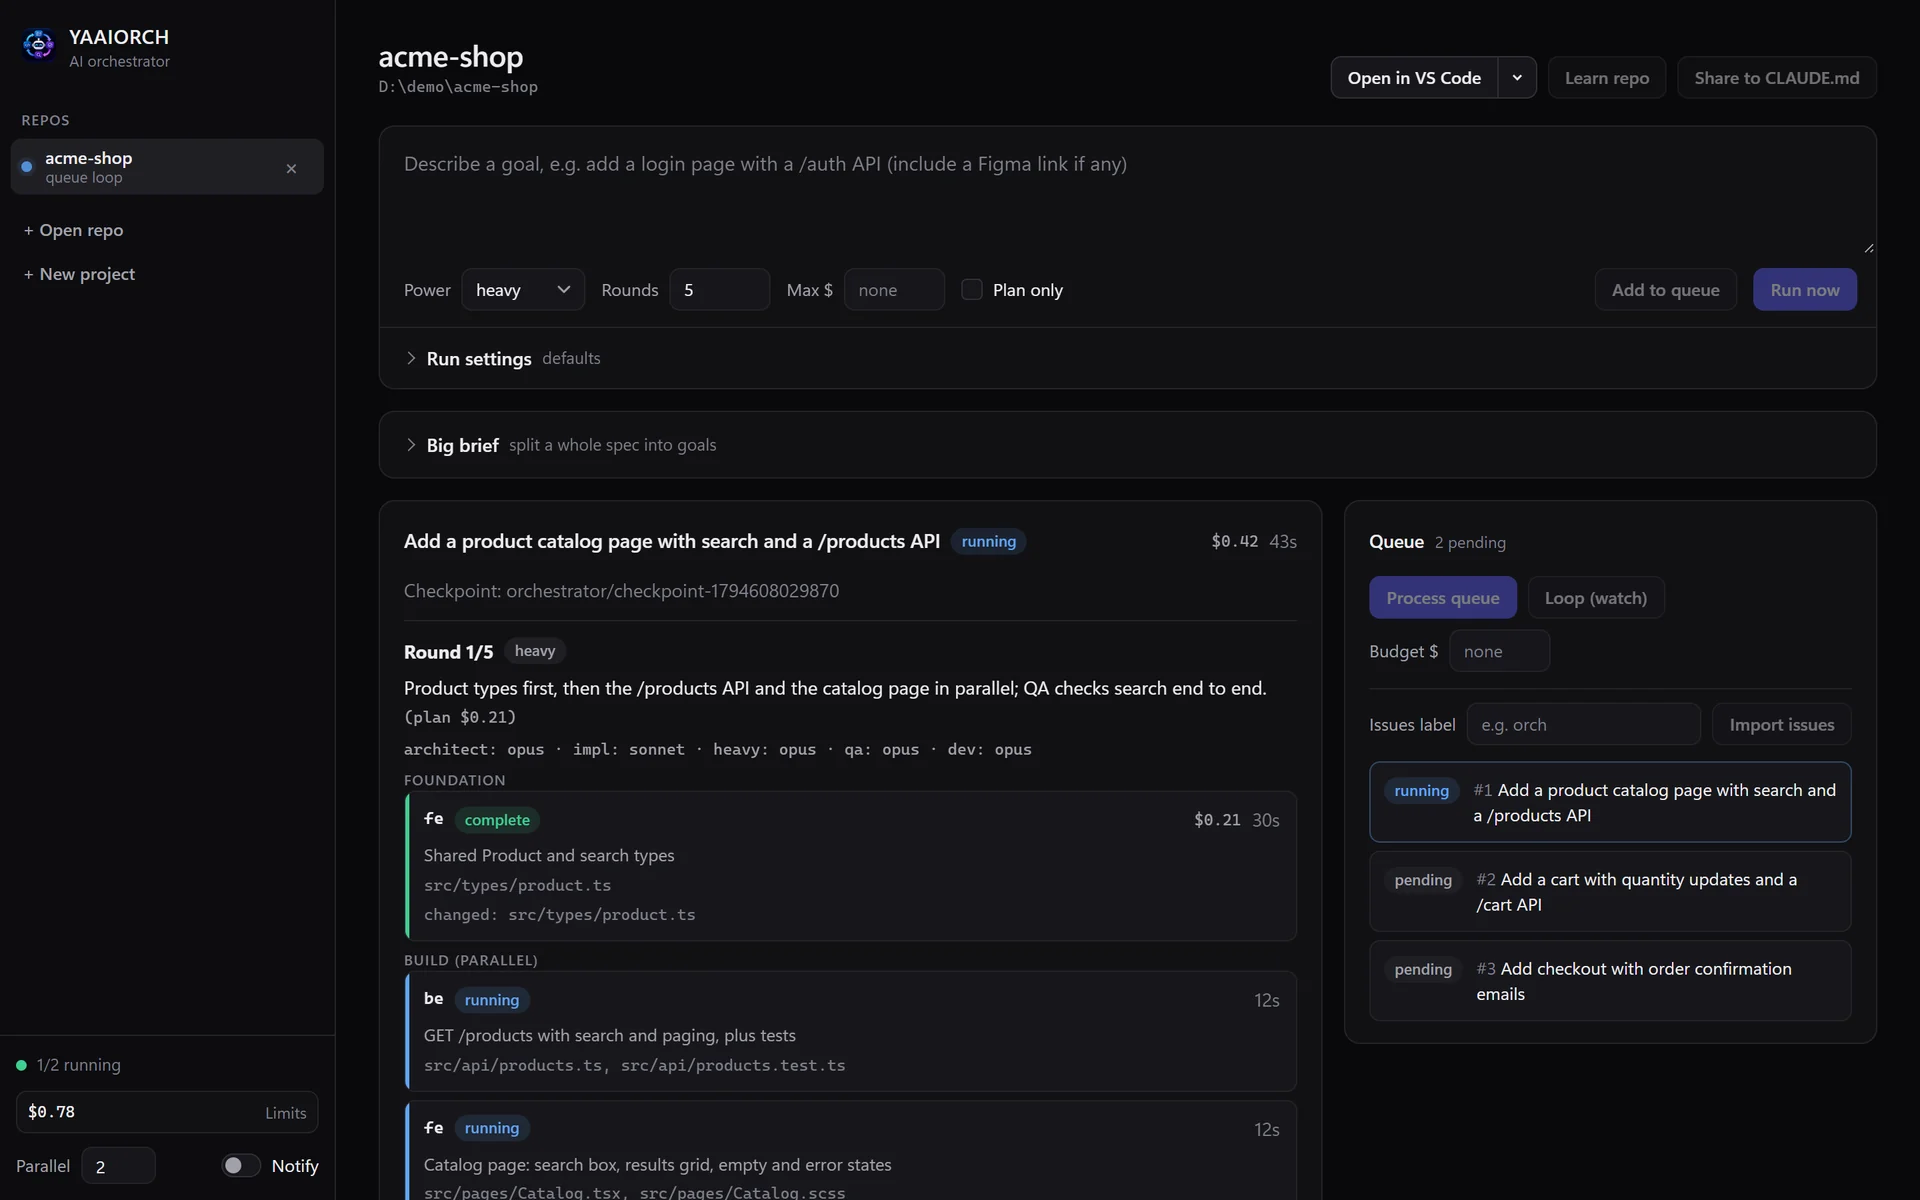
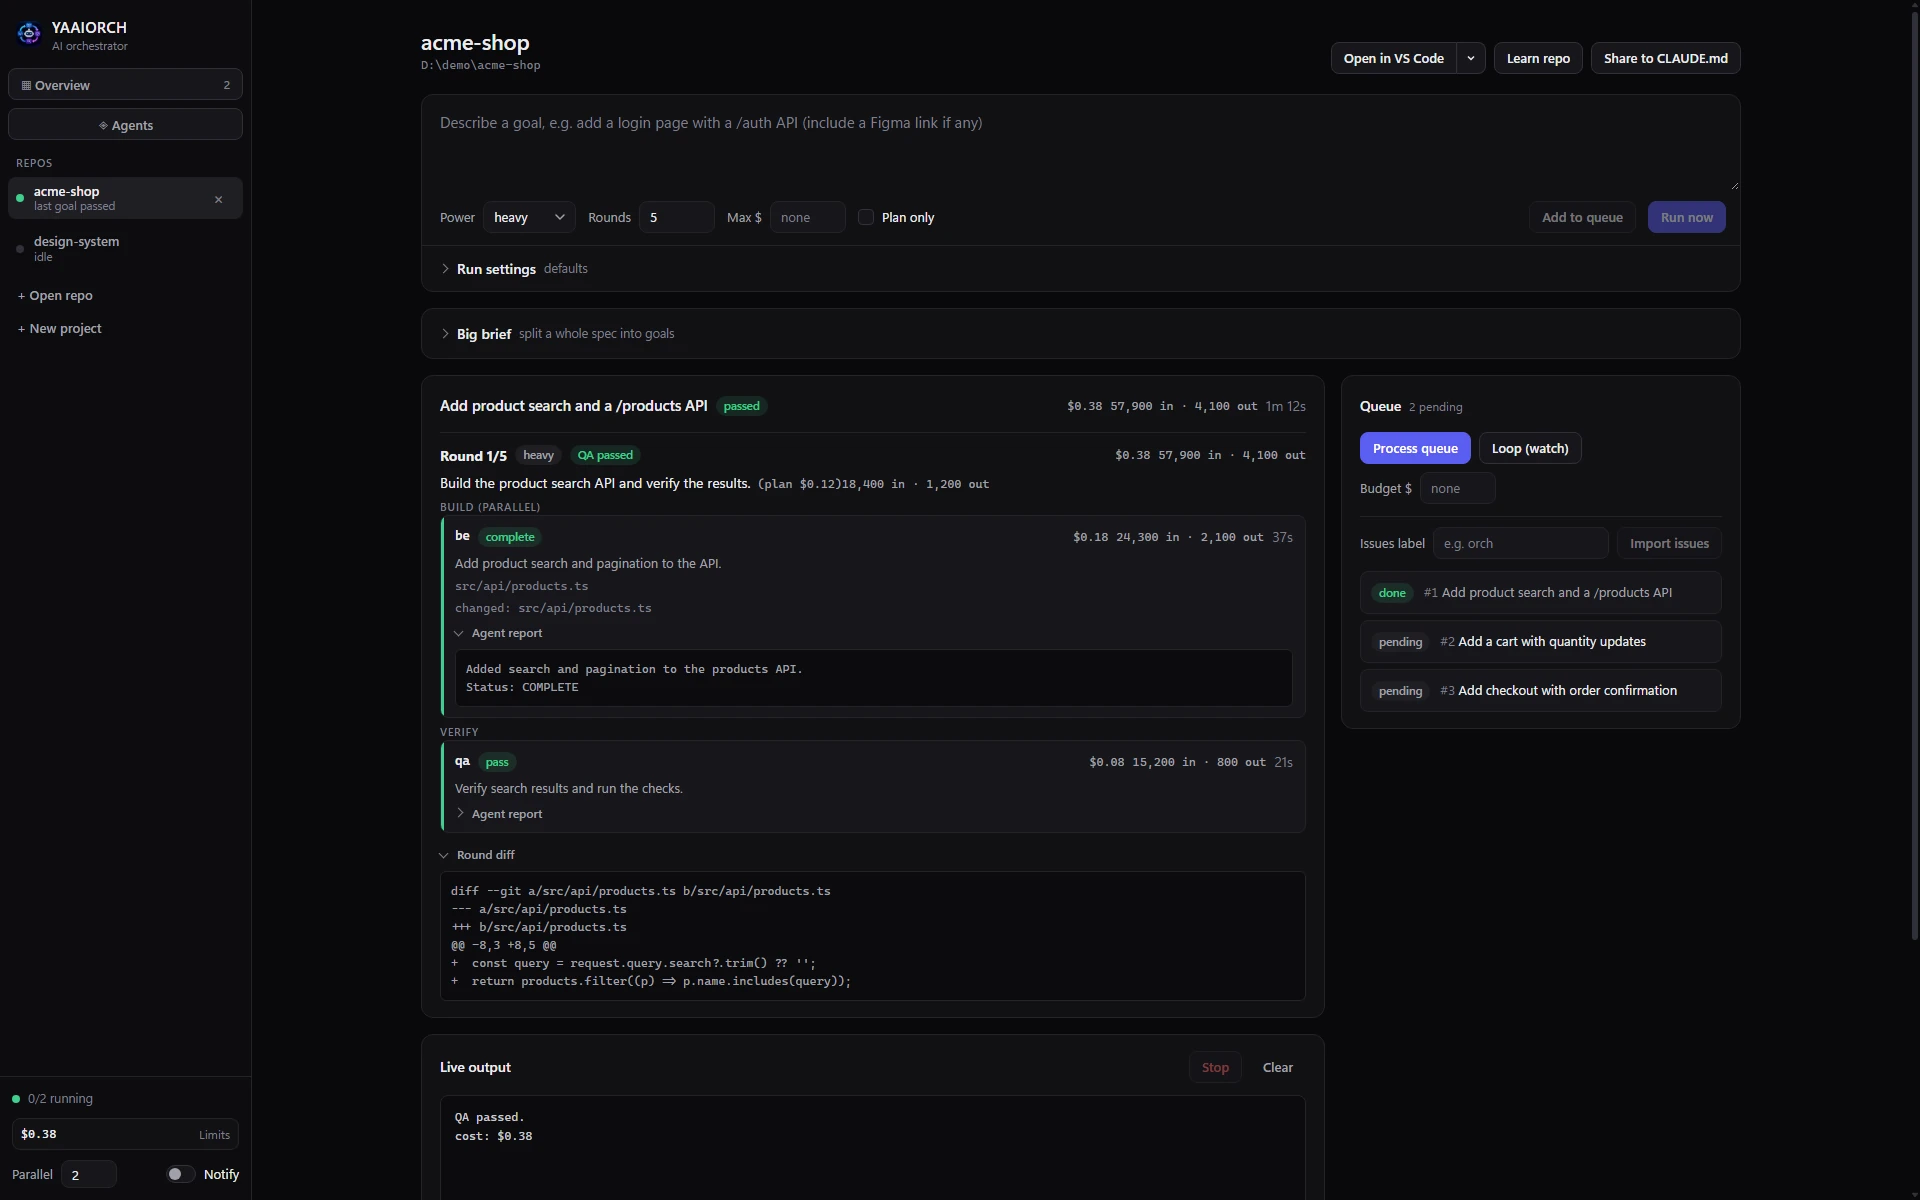
Update landing

diff --git a/docs/index.html b/docs/index.html
@@ -458,9 +458,7 @@
         font-weight: 800;
       }
 
-      .feature:nth-child(2) .feature-mark,
-      .feature:nth-child(4) .feature-mark,
-      .feature:nth-child(6) .feature-mark {
+      .feature:nth-child(even) .feature-mark {
         color: var(--violet);
       }
 
@@ -788,9 +786,9 @@
           height="1200"
           loading="lazy"
           decoding="async"
-          alt="The YAAIORCH app running a goal: the architect's plan, a finished foundation task, two build tasks running in parallel, and two more goals waiting in the queue."
+          alt="The YAAIORCH app showing an example completed goal, token counts, an expanded agent report and round diff, and two goals waiting in the queue."
         />
-        <figcaption>A goal mid-run: the plan, tasks with their files and cost, and the queue that runs next.</figcaption>
+        <figcaption>An example completed goal: task reports, round diff, cost and token counts, and the queue.</figcaption>
       </figure>
 
       <div class="trust-strip">
@@ -824,7 +822,8 @@
             <h3>Your project sets the bar</h3>
             <p>
               A read-only architect plans; implementers build; then your configured checks and a read-only QA agent
-              verify the result. A failed check means the round fails, regardless of agent claims.
+              verify the result. A failed check means the round fails, regardless of agent claims. Optional browser
+              checks give QA screenshots and measurements from your app.
             </p>
           </article>
           <article class="feature">
@@ -859,7 +858,23 @@
             <p>
               Label a GitHub issue and YAAIORCH picks it up: it works on its own branch, opens a pull request that
               closes the issue, comments on progress, and tries to fix the pull request's CI when a check fails. You
-              review pull requests, not runs.
+              review the pull request before merging.
+            </p>
+          </article>
+          <article class="feature">
+            <span class="feature-mark" aria-hidden="true">07</span>
+            <h3>See what happened</h3>
+            <p>
+              Expand task reports and inspect each round's Git diff. See input and output token counts alongside cost
+              when usage is available, and revisit round diffs in the last-run summary.
+            </p>
+          </article>
+          <article class="feature">
+            <span class="feature-mark" aria-hidden="true">08</span>
+            <h3>Know your agents</h3>
+            <p>
+              Browse built-in, user and project agents alongside discovered skills. Edit project agents or save a
+              repo-local override without changing your global Claude Code definitions.
             </p>
           </article>
         </div>

diff --git a/CHANGELOG.md b/CHANGELOG.md
@@ -5,6 +5,9 @@ and the project uses [semantic versioning](https://semver.org/) (0.x: anything m
 
 ## [Unreleased]
 
+### Changed
+- Updated the project site and screenshot to highlight browser checks, task reports, round diffs, token counts and the agent roster.
+
 ## [0.5.1] - 2026-11-14
 
 ### Added
